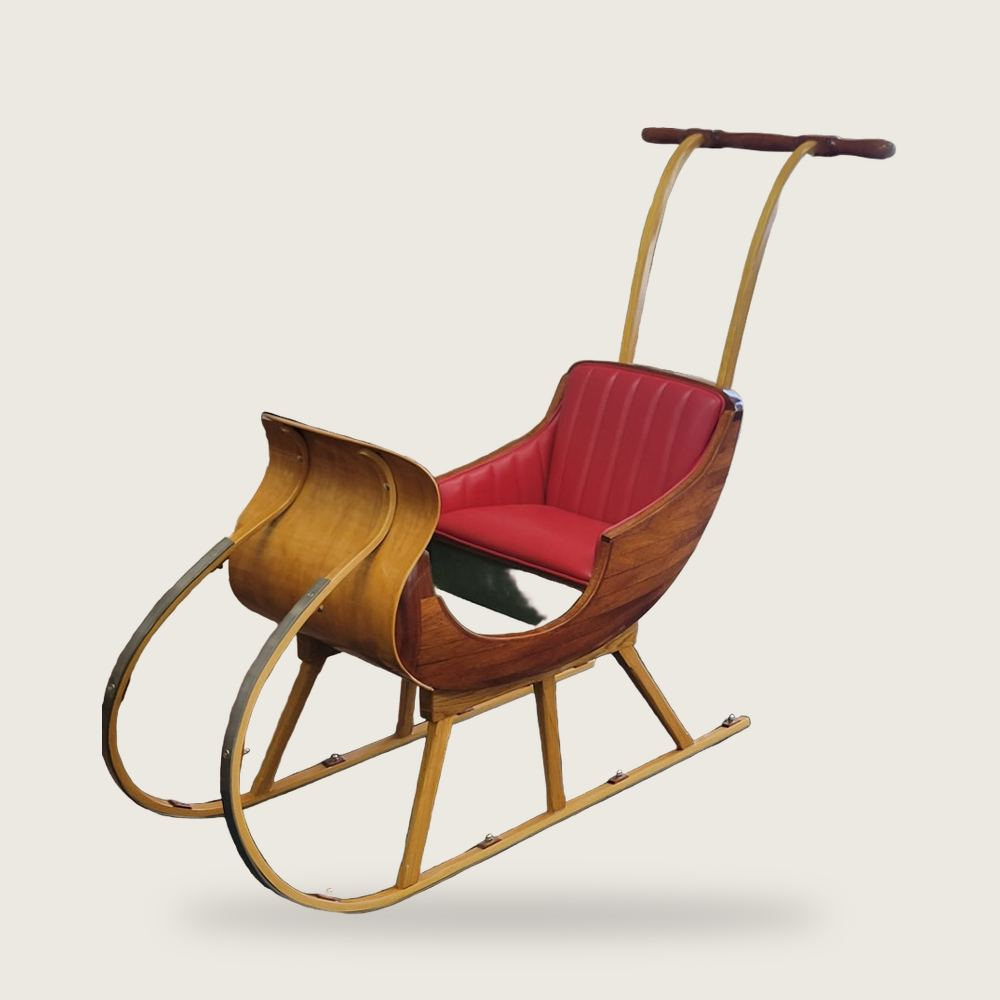
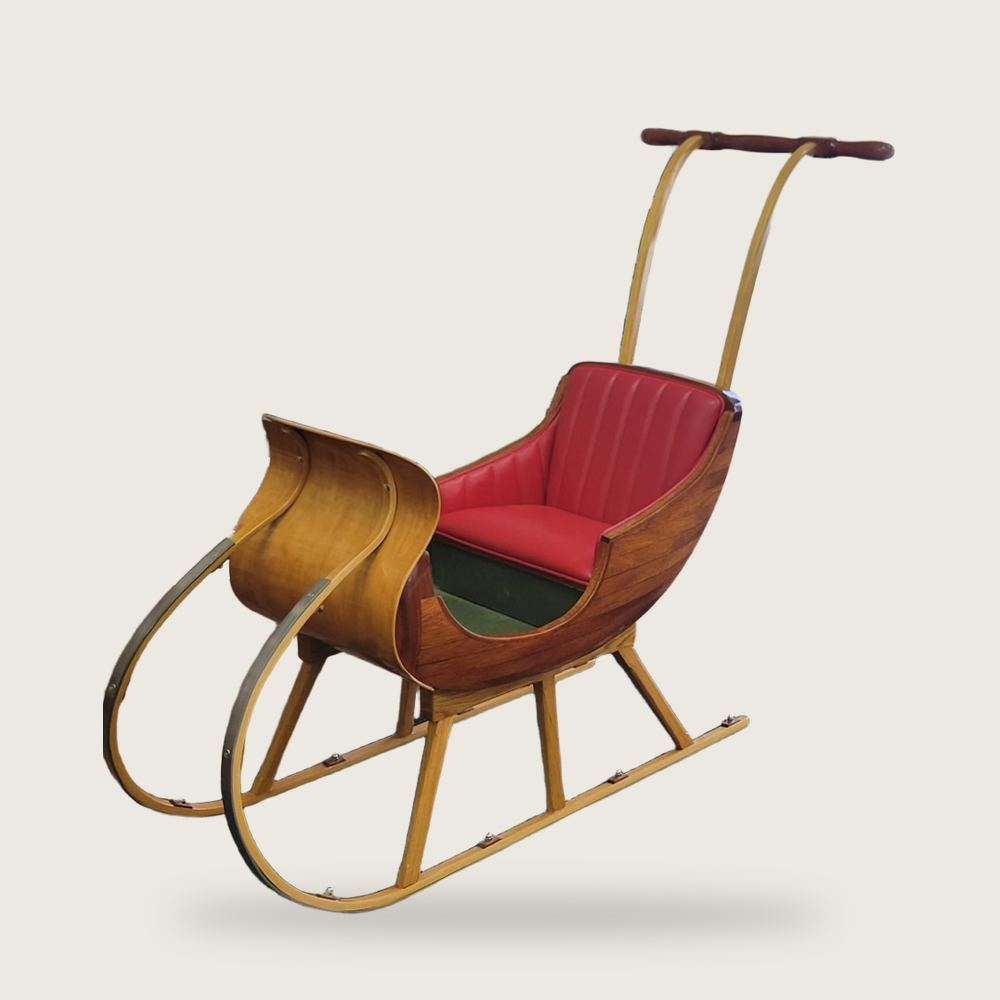
Découpages refaits avec Bria, et la légende rentre dans sa figure
Deux défauts distincts sur la grille des réalisations.

1. Les découpages. BiRefNet perçait le sujet : 9 % de la bande
   centrale du fauteuil de cuir était transparente, d'où le trou en
   plein siège. Repassé sur fal avec bria/background/remove — 0 % de
   trou au centre, halo à 0,93 %. Les neuf pièces y gagnent, dont le
   fauteuil tonneau et le Louis XVI qui étaient écartés faute de
   dossier intact ; ils reviennent.

2. La légende débordait de sa figure. L'image porte aspect-ratio 1/1,
   ce qui fixait la hauteur de rangée ; la figure était ensuite étirée
   à cette hauteur et les 26 px de légende passaient dessous, sur la
   rangée suivante. align-items:start sur la grille, figure en
   colonne flex : débordement mesuré à 0 px sur les neuf.

Le recadrage des découpages n'est plus nécessaire là où Bria écarte
déjà le décor ; il ne reste que pour la berçante et le tonneau.

diff --git a/index.html b/index.html
@@ -21,7 +21,7 @@
 <link rel="preconnect" href="https://fonts.googleapis.com">
 <link rel="preconnect" href="https://fonts.gstatic.com" crossorigin>
 <link rel="stylesheet" href="https://fonts.googleapis.com/css2?family=Archivo:wdth,wght@62..125,400..700&family=Jost:wght@300;400;500&family=Newsreader:ital,opsz,wght@0,6..72,300;0,6..72,400;0,6..72,500;1,6..72,300;1,6..72,400&display=swap">
-<link rel="stylesheet" href="assets/site.css?v=aa20bacd">
+<link rel="stylesheet" href="assets/site.css?v=4710342b">
 <script type="application/ld+json">
 {
   "@context": "https://schema.org",
@@ -273,8 +273,16 @@
         <figcaption data-en="Art deco tub chair · chevron weave">Fauteuil art déco · tissé à chevrons</figcaption>
       </figure>
       <figure class="rise">
+        <img src="assets/travaux/fauteuil-tonneau.jpg" alt="Fauteuil tonneau à bois noirci sculpté, recouvert d’un tissé bleu à feuillage." loading="lazy" width="1000" height="1000">
+        <figcaption data-en="Barrel chair · carved ebonised frame">Fauteuil tonneau · bois sculpté noirci</figcaption>
+      </figure>
+      <figure class="rise">
         <img src="assets/travaux/paire-os-mouton.jpg" alt="Paire de fauteuils os-de-mouton recouverts d’un imprimé floral, bois clair." loading="lazy" width="1000" height="1000">
         <figcaption data-en="Pair of os-de-mouton armchairs">Paire de fauteuils os-de-mouton</figcaption>
+      </figure>
+      <figure class="rise">
+        <img src="assets/travaux/louis-xvi-velours.jpg" alt="Fauteuil Louis XVI recouvert d’un velours à motif floral vif." loading="lazy" width="1000" height="1000">
+        <figcaption data-en="Louis XVI armchair · painted velvet">Fauteuil Louis XVI · velours peint</figcaption>
       </figure>
       <figure class="rise">
         <img src="assets/travaux/rocking-cannage.jpg" alt="Chaise berçante en rotin dont le dossier et l’assise ont été recannés à la main." loading="lazy" width="1000" height="1000">

diff --git a/assets/site.css b/assets/site.css
@@ -639,10 +639,12 @@ html:not(.intro-skip) body:has(.splash:not(.done)){overflow:hidden}
 /* ── réalisations ────────────────────────────────────────
    Leur travail réel : les photographies portent la page
    mieux que n'importe quelle image fabriquée. */
-.work{display:grid;grid-template-columns:repeat(auto-fit,minmax(240px,1fr));gap:clamp(14px,1.6vw,22px)}
-.work figure{margin:0}
-.work figure img{width:100%;aspect-ratio:1/1;object-fit:cover;border:1px solid var(--rule)}
-.work figcaption{margin-top:9px}
+/* align-items:start, sinon la figure est étirée à la hauteur de rangée
+   calculée sur le seul ratio de l'image et la légende déborde dessous. */
+.work{display:grid;grid-template-columns:repeat(auto-fit,minmax(240px,1fr));gap:clamp(20px,2vw,30px);align-items:start}
+.work figure{margin:0;display:flex;flex-direction:column}
+.work figure img{width:100%;aspect-ratio:1/1;object-fit:cover;border:1px solid var(--rule);flex:0 0 auto}
+.work figcaption{margin-top:10px;line-height:1.5}
 @media (prefers-reduced-motion:no-preference){
   .work figure{transition:transform .35s cubic-bezier(.22,.7,.24,1)}
   .work figure:hover{transform:translateY(-4px)}

diff --git a/a-propos.html b/a-propos.html
@@ -21,7 +21,7 @@
 <link rel="preconnect" href="https://fonts.googleapis.com">
 <link rel="preconnect" href="https://fonts.gstatic.com" crossorigin>
 <link rel="stylesheet" href="https://fonts.googleapis.com/css2?family=Archivo:wdth,wght@62..125,400..700&family=Jost:wght@300;400;500&family=Newsreader:ital,opsz,wght@0,6..72,300;0,6..72,400;0,6..72,500;1,6..72,300;1,6..72,400&display=swap">
-<link rel="stylesheet" href="assets/site.css?v=aa20bacd">
+<link rel="stylesheet" href="assets/site.css?v=4710342b">
 <script type="application/ld+json">
 {
   "@context": "https://schema.org",

diff --git a/cannage.html b/cannage.html
@@ -21,7 +21,7 @@
 <link rel="preconnect" href="https://fonts.googleapis.com">
 <link rel="preconnect" href="https://fonts.gstatic.com" crossorigin>
 <link rel="stylesheet" href="https://fonts.googleapis.com/css2?family=Archivo:wdth,wght@62..125,400..700&family=Jost:wght@300;400;500&family=Newsreader:ital,opsz,wght@0,6..72,300;0,6..72,400;0,6..72,500;1,6..72,300;1,6..72,400&display=swap">
-<link rel="stylesheet" href="assets/site.css?v=aa20bacd">
+<link rel="stylesheet" href="assets/site.css?v=4710342b">
 <script type="application/ld+json">
 {
   "@context": "https://schema.org",

diff --git a/savoir-faire.html b/savoir-faire.html
@@ -21,7 +21,7 @@
 <link rel="preconnect" href="https://fonts.googleapis.com">
 <link rel="preconnect" href="https://fonts.gstatic.com" crossorigin>
 <link rel="stylesheet" href="https://fonts.googleapis.com/css2?family=Archivo:wdth,wght@62..125,400..700&family=Jost:wght@300;400;500&family=Newsreader:ital,opsz,wght@0,6..72,300;0,6..72,400;0,6..72,500;1,6..72,300;1,6..72,400&display=swap">
-<link rel="stylesheet" href="assets/site.css?v=aa20bacd">
+<link rel="stylesheet" href="assets/site.css?v=4710342b">
 <script type="application/ld+json">
 {
   "@context": "https://schema.org",

diff --git a/tissus.html b/tissus.html
@@ -21,7 +21,7 @@
 <link rel="preconnect" href="https://fonts.googleapis.com">
 <link rel="preconnect" href="https://fonts.gstatic.com" crossorigin>
 <link rel="stylesheet" href="https://fonts.googleapis.com/css2?family=Archivo:wdth,wght@62..125,400..700&family=Jost:wght@300;400;500&family=Newsreader:ital,opsz,wght@0,6..72,300;0,6..72,400;0,6..72,500;1,6..72,300;1,6..72,400&display=swap">
-<link rel="stylesheet" href="assets/site.css?v=aa20bacd">
+<link rel="stylesheet" href="assets/site.css?v=4710342b">
 <script type="application/ld+json">
 {
   "@context": "https://schema.org",

diff --git a/build.py b/build.py
@@ -384,8 +384,16 @@ HOME = '''<section class="hero" id="haut">
         <figcaption data-en="Art deco tub chair · chevron weave">Fauteuil art déco · tissé à chevrons</figcaption>
       </figure>
       <figure class="rise">
+        <img src="assets/travaux/fauteuil-tonneau.jpg" alt="Fauteuil tonneau à bois noirci sculpté, recouvert d’un tissé bleu à feuillage." loading="lazy" width="1000" height="1000">
+        <figcaption data-en="Barrel chair · carved ebonised frame">Fauteuil tonneau · bois sculpté noirci</figcaption>
+      </figure>
+      <figure class="rise">
         <img src="assets/travaux/paire-os-mouton.jpg" alt="Paire de fauteuils os-de-mouton recouverts d’un imprimé floral, bois clair." loading="lazy" width="1000" height="1000">
         <figcaption data-en="Pair of os-de-mouton armchairs">Paire de fauteuils os-de-mouton</figcaption>
+      </figure>
+      <figure class="rise">
+        <img src="assets/travaux/louis-xvi-velours.jpg" alt="Fauteuil Louis XVI recouvert d’un velours à motif floral vif." loading="lazy" width="1000" height="1000">
+        <figcaption data-en="Louis XVI armchair · painted velvet">Fauteuil Louis XVI · velours peint</figcaption>
       </figure>
       <figure class="rise">
         <img src="assets/travaux/rocking-cannage.jpg" alt="Chaise berçante en rotin dont le dossier et l’assise ont été recannés à la main." loading="lazy" width="1000" height="1000">
